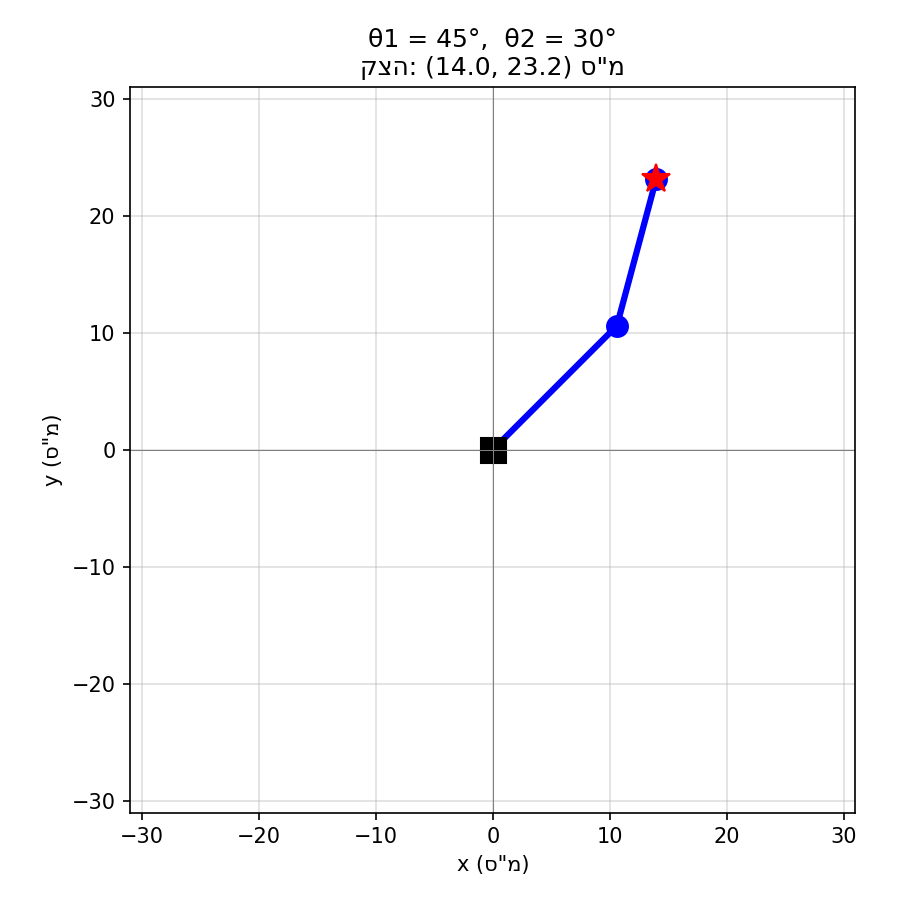
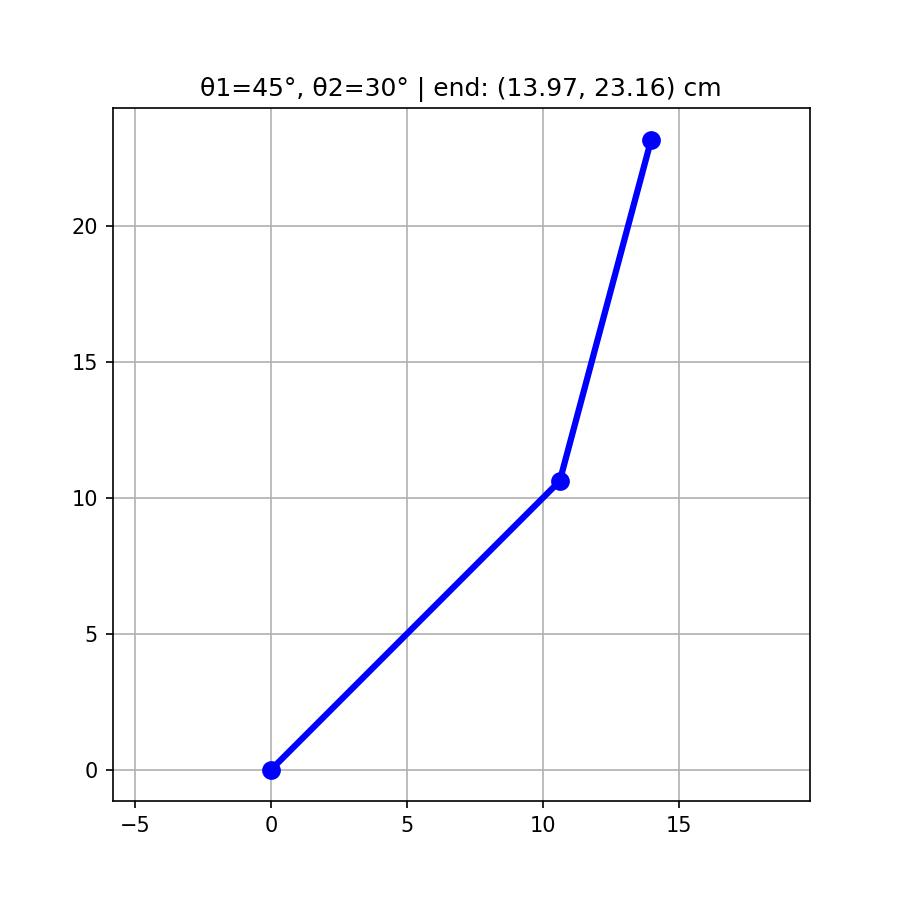
Day 2: improved FK code, file saving, verification test

diff --git a/Code/fk_2dof.py b/Code/fk_2dof.py
@@ -3,6 +3,11 @@
 # Computes end-effector position from joint angles
 import numpy as np
 import matplotlib.pyplot as plt
+import os
+
+SCRIPT_DIR = os.path.dirname(os.path.abspath(__file__))
+SIM_DIR = os.path.join(SCRIPT_DIR, '..', 'Simulations')
+os.makedirs(SIM_DIR, exist_ok=True)
 
 def forward_kinematics(theta1,theta2,L1,L2):
     angle_rad1 = np.radians(theta1)
@@ -11,14 +16,27 @@ def forward_kinematics(theta1,theta2,L1,L2):
     y = np.sin(angle_rad1)*L1 + np.sin(angle_rad1+angle_rad2)*L2 
     return x,y
 
+def joint_positions(theta1,theta2,L1,L2):
+    t1 = np.radians(theta1)
+    t2 = np.radians(theta2)
+    x0,y0 = 0.0,0.0
+    x1 = L1 * np.cos(t1)
+    y1 = L1 * np.sin(t1)
+    x2 = x1 + L2 * np.cos(t1 + t2)
+    y2 = y1 + L2 * np.sin(t1 + t2)
+    return (x0, y0), (x1, y1), (x2, y2)
+
+
+
 
 def plot_arm(theta1, theta2, L1, L2):
-    x0,y0 = 0,0
-    x1,y1 = forward_kinematics(theta1,0,L1,0)
-    x2,y2 = forward_kinematics(theta1,theta2,L1,L2)
-    plt.plot([x0, x1, x2], [y0, y1, y2], 'k*-', linewidth=3)
+    (x0, y0), (x1, y1), (x2, y2) = joint_positions(theta1, theta2, L1, L2)
+    plt.figure(figsize=(6,6))
+    plt.plot([x0, x1, x2], [y0, y1, y2], 'bo-', linewidth=3, markersize=8)
     plt.axis('equal')
+    plt.title(f'θ1={theta1}°, θ2={theta2}° | end: ({x2:.2f}, {y2:.2f}) cm')
     plt.grid(True)
+    plt.savefig(os.path.join(SIM_DIR, 'arm_pose.png'), dpi=150)
     plt.show()
 
 
@@ -35,8 +53,18 @@ def plot_workspace(L1, L2):
     plt.scatter(xs, ys, s=0.5, alpha=0.2)
     plt.axis('equal')
     plt.grid(True)
+    plt.savefig(os.path.join(SIM_DIR, 'workspace.png'), dpi=150)
     plt.show()
 
-plot_workspace(15,13)
+def run_verification():
+    x, y = forward_kinematics(90, 0, 10, 8)
+    passed = abs(x) < 0.01 and abs(y - 18) < 0.01
+    print('── Verification ──────────────────────')
+    print(f'FK(90°, 0°, L1=10, L2=8) → x={x:.4f}, y={y:.4f}')
+    print(f'Expected: x≈0, y≈18')
+    print(f'Result: {"✅ PASS" if passed else "❌ FAIL"}')
+    print('──────────────────────────────────────')
 
-
+plot_arm(45, 30, 15, 13)
+plot_workspace(15, 13)
+run_verification()
